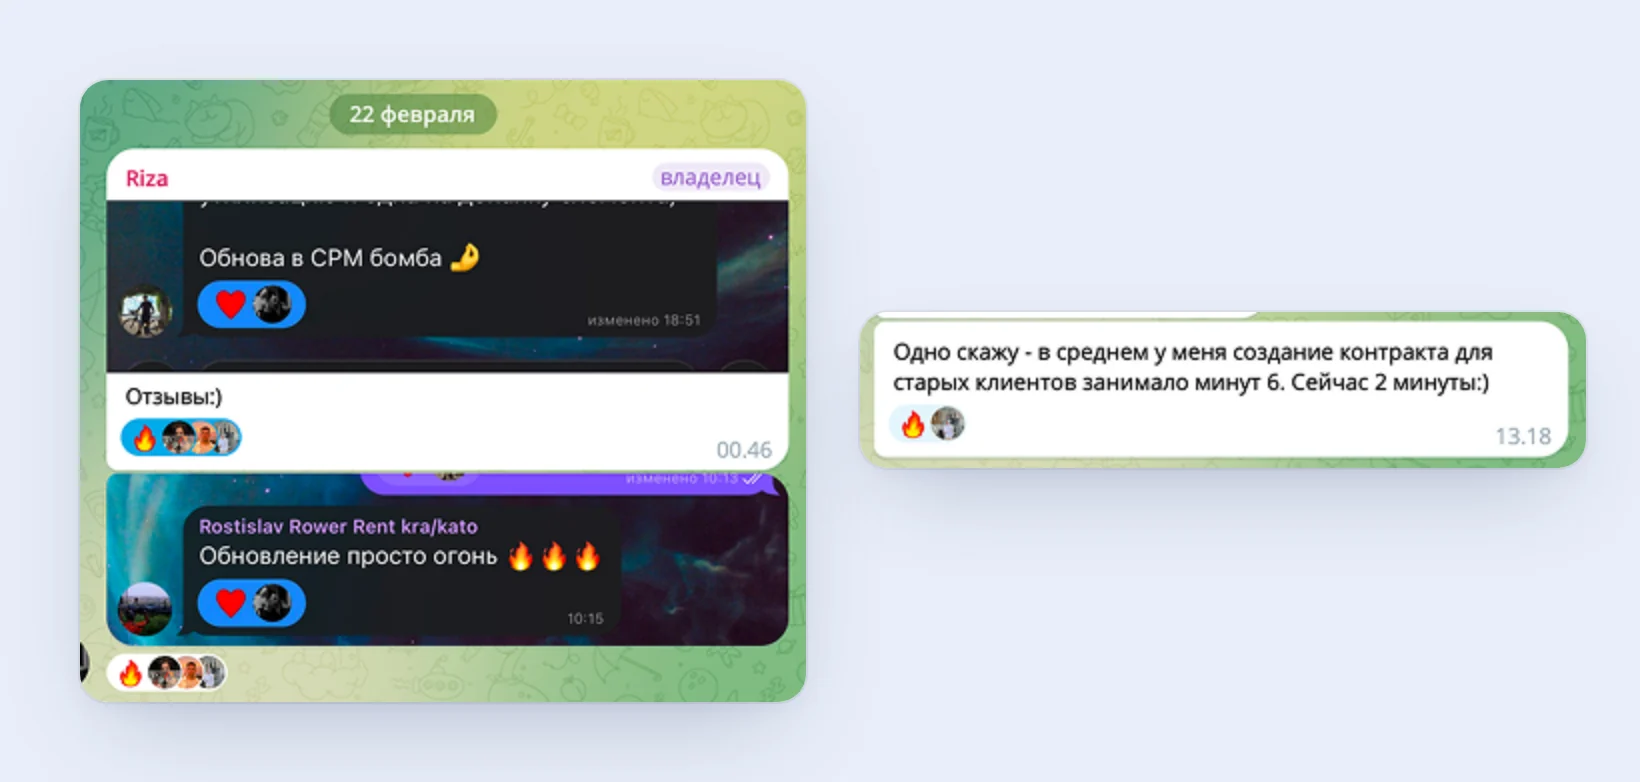
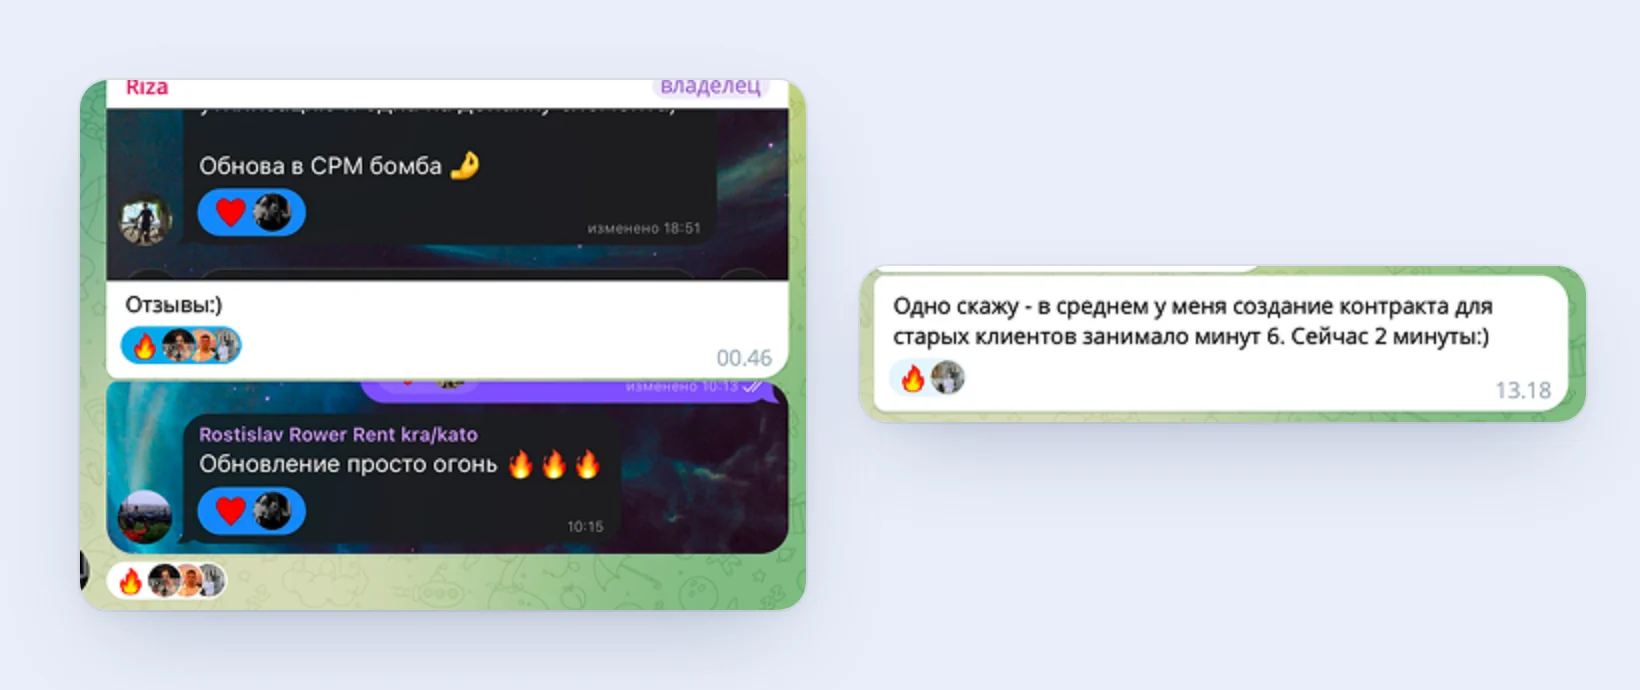
Одинаковая высота картинок в парах, отзывы без даты, новый экран на iPad

Changed region(s): [[0.0311, 0.0913, 0.4976, 0.913], [0.5287, 0.3652, 0.964, 0.487], [0.5287, 0.5174, 0.964, 0.6391]]

diff --git a/rower-rent.html b/rower-rent.html
@@ -144,7 +144,7 @@
             <div class="media media--img " style="aspect-ratio:1336/1066"><img src="assets/rower-rent/uikit-inputs.webp" alt="UI-кит Rower Rent: состояния полей ввода от default до error и disabled, дропдаун с поиском" loading="lazy" decoding="async" width="1336" height="1066"></div>
             <figcaption><span class="nowrap">UI-кит</span>: поля ввода во&nbsp;всех состояниях, дропдаун с&nbsp;поиском по&nbsp;номеру велосипеда</figcaption>
           </figure><figure class="figure ">
-            <div class="media media--img " style="aspect-ratio:1336/1016"><img src="assets/rower-rent/login.webp" alt="Экран входа Rower Rent с полями email и пароля" loading="lazy" decoding="async" width="1336" height="1016"></div>
+            <div class="media media--img " style="aspect-ratio:1336/1066"><img src="assets/rower-rent/login.webp" alt="Экран входа Rower Rent с полями email и пароля" loading="lazy" decoding="async" width="1336" height="1066"></div>
             <figcaption>Экран входа в&nbsp;CRM в&nbsp;фирменном стиле сайта</figcaption>
           </figure></div>
           </article>
@@ -199,7 +199,7 @@
             <div class="media media--img " style="aspect-ratio:1336/1056"><img src="assets/rower-rent/equipment-table.webp" alt="Экран «Оборудование» целиком: таблица велосипедов с цветными статусами available, rented, service и тегами Курьер и Турист" loading="lazy" decoding="async" width="1336" height="1056"></div>
             <figcaption>Таблица оборудования: статусы и&nbsp;тип аренды из&nbsp;фиксированного словаря</figcaption>
           </figure><figure class="figure ">
-            <div class="media media--img " style="aspect-ratio:1336/1052"><img src="assets/rower-rent/create-item.webp" alt="Модальное окно создания предмета с выбором статуса и типа аренды" loading="lazy" decoding="async" width="1336" height="1052"></div>
+            <div class="media media--img " style="aspect-ratio:1336/1056"><img src="assets/rower-rent/create-item.webp" alt="Модальное окно создания предмета с выбором статуса и типа аренды" loading="lazy" decoding="async" width="1336" height="1056"></div>
             <figcaption>Единое окно создания предмета: статус и&nbsp;тип аренды выбираются, а&nbsp;не&nbsp;пишутся вручную</figcaption>
           </figure></div>
           </article>
@@ -294,7 +294,7 @@
       <div class="case-section__body">
         <div class="results"><div class="result-group result-group--measured"><span class="result-group__label">Измерено</span><ul><li><svg width="20" height="20" viewBox="0 0 20 20" fill="none" aria-hidden="true"><path d="M4.16667 9.99967H15.8333M10.8333 14.9997L15.8333 9.99967L10.8333 4.99967" stroke="currentColor" stroke-width="1.6" stroke-linecap="round" stroke-linejoin="round"/></svg><span><strong>−58%</strong> времени оформления контракта</span></li><li><svg width="20" height="20" viewBox="0 0 20 20" fill="none" aria-hidden="true"><path d="M4.16667 9.99967H15.8333M10.8333 14.9997L15.8333 9.99967L10.8333 4.99967" stroke="currentColor" stroke-width="1.6" stroke-linecap="round" stroke-linejoin="round"/></svg><span><strong>2000+</strong> контрактов через CRM за&nbsp;первые 6&nbsp;месяцев</span></li><li><svg width="20" height="20" viewBox="0 0 20 20" fill="none" aria-hidden="true"><path d="M4.16667 9.99967H15.8333M10.8333 14.9997L15.8333 9.99967L10.8333 4.99967" stroke="currentColor" stroke-width="1.6" stroke-linecap="round" stroke-linejoin="round"/></svg><span><strong>−60%</strong> ошибок при&nbsp;оформлении</span></li></ul></div><div class="result-group result-group--qual"><span class="result-group__label">Обратная связь и&nbsp;итог</span><ul><li><svg width="20" height="20" viewBox="0 0 20 20" fill="none" aria-hidden="true"><path d="M4.16667 9.99967H15.8333M10.8333 14.9997L15.8333 9.99967L10.8333 4.99967" stroke="currentColor" stroke-width="1.6" stroke-linecap="round" stroke-linejoin="round"/></svg><span>Ошибки при&nbsp;выборе способа оплаты снизились до&nbsp;нуля после второго релиза</span></li><li><svg width="20" height="20" viewBox="0 0 20 20" fill="none" aria-hidden="true"><path d="M4.16667 9.99967H15.8333M10.8333 14.9997L15.8333 9.99967L10.8333 4.99967" stroke="currentColor" stroke-width="1.6" stroke-linecap="round" stroke-linejoin="round"/></svg><span>Команда перешла на&nbsp;CRM без&nbsp;сопротивления, хотя от&nbsp;готовых систем раньше отказалась</span></li><li><svg width="20" height="20" viewBox="0 0 20 20" fill="none" aria-hidden="true"><path d="M4.16667 9.99967H15.8333M10.8333 14.9997L15.8333 9.99967L10.8333 4.99967" stroke="currentColor" stroke-width="1.6" stroke-linecap="round" stroke-linejoin="round"/></svg><span>Страница бронирований собрана и&nbsp;передана в&nbsp;разработку</span></li></ul></div></div>
           <figure class="figure ">
-            <div class="media media--img " style="aspect-ratio:1640/782"><img src="assets/rower-rent/reviews.webp" alt="Скриншоты сообщений: «Обнова в CRM бомба», «Обновление просто огонь» и «В среднем у меня создание контракта для старых клиентов занимало минут 6. Сейчас 2 минуты»" loading="lazy" decoding="async" width="1640" height="782"></div>
+            <div class="media media--img " style="aspect-ratio:1640/690"><img src="assets/rower-rent/reviews.webp" alt="Скриншоты сообщений: «Обнова в CRM бомба», «Обновление просто огонь» и «В среднем у меня создание контракта для старых клиентов занимало минут 6. Сейчас 2 минуты»" loading="lazy" decoding="async" width="1640" height="690"></div>
             <figcaption>Отзывы владельца и&nbsp;менеджеров в&nbsp;рабочем чате после релизов</figcaption>
           </figure>
       </div>

diff --git a/nobetek.html b/nobetek.html
@@ -173,7 +173,7 @@
             <div class="media media--img " style="aspect-ratio:1336/1120"><img src="assets/nobetek/reviews.webp" alt="Блок отзывов с рейтингом 4.8, распределением оценок и подписью «Источник: Яндекс отзывы»" loading="lazy" decoding="async" width="1336" height="1120"></div>
             <figcaption>Отзывы с&nbsp;Яндекса: рейтинг, фото покупателей и&nbsp;ссылка на&nbsp;источник</figcaption>
           </figure><figure class="figure ">
-            <div class="media media--img " style="aspect-ratio:1336/1044"><img src="assets/nobetek/product-tech.webp" alt="Тёмный блок «Технология, которой доверяют» с карточками марок бетона М300–М500" loading="lazy" decoding="async" width="1336" height="1044"></div>
+            <div class="media media--img " style="aspect-ratio:1336/1120"><img src="assets/nobetek/product-tech.webp" alt="Тёмный блок «Технология, которой доверяют» с карточками марок бетона М300–М500" loading="lazy" decoding="async" width="1336" height="1120"></div>
             <figcaption>Страница товара: технология и&nbsp;класс прочности бетона простым языком</figcaption>
           </figure></div>
           </article>
